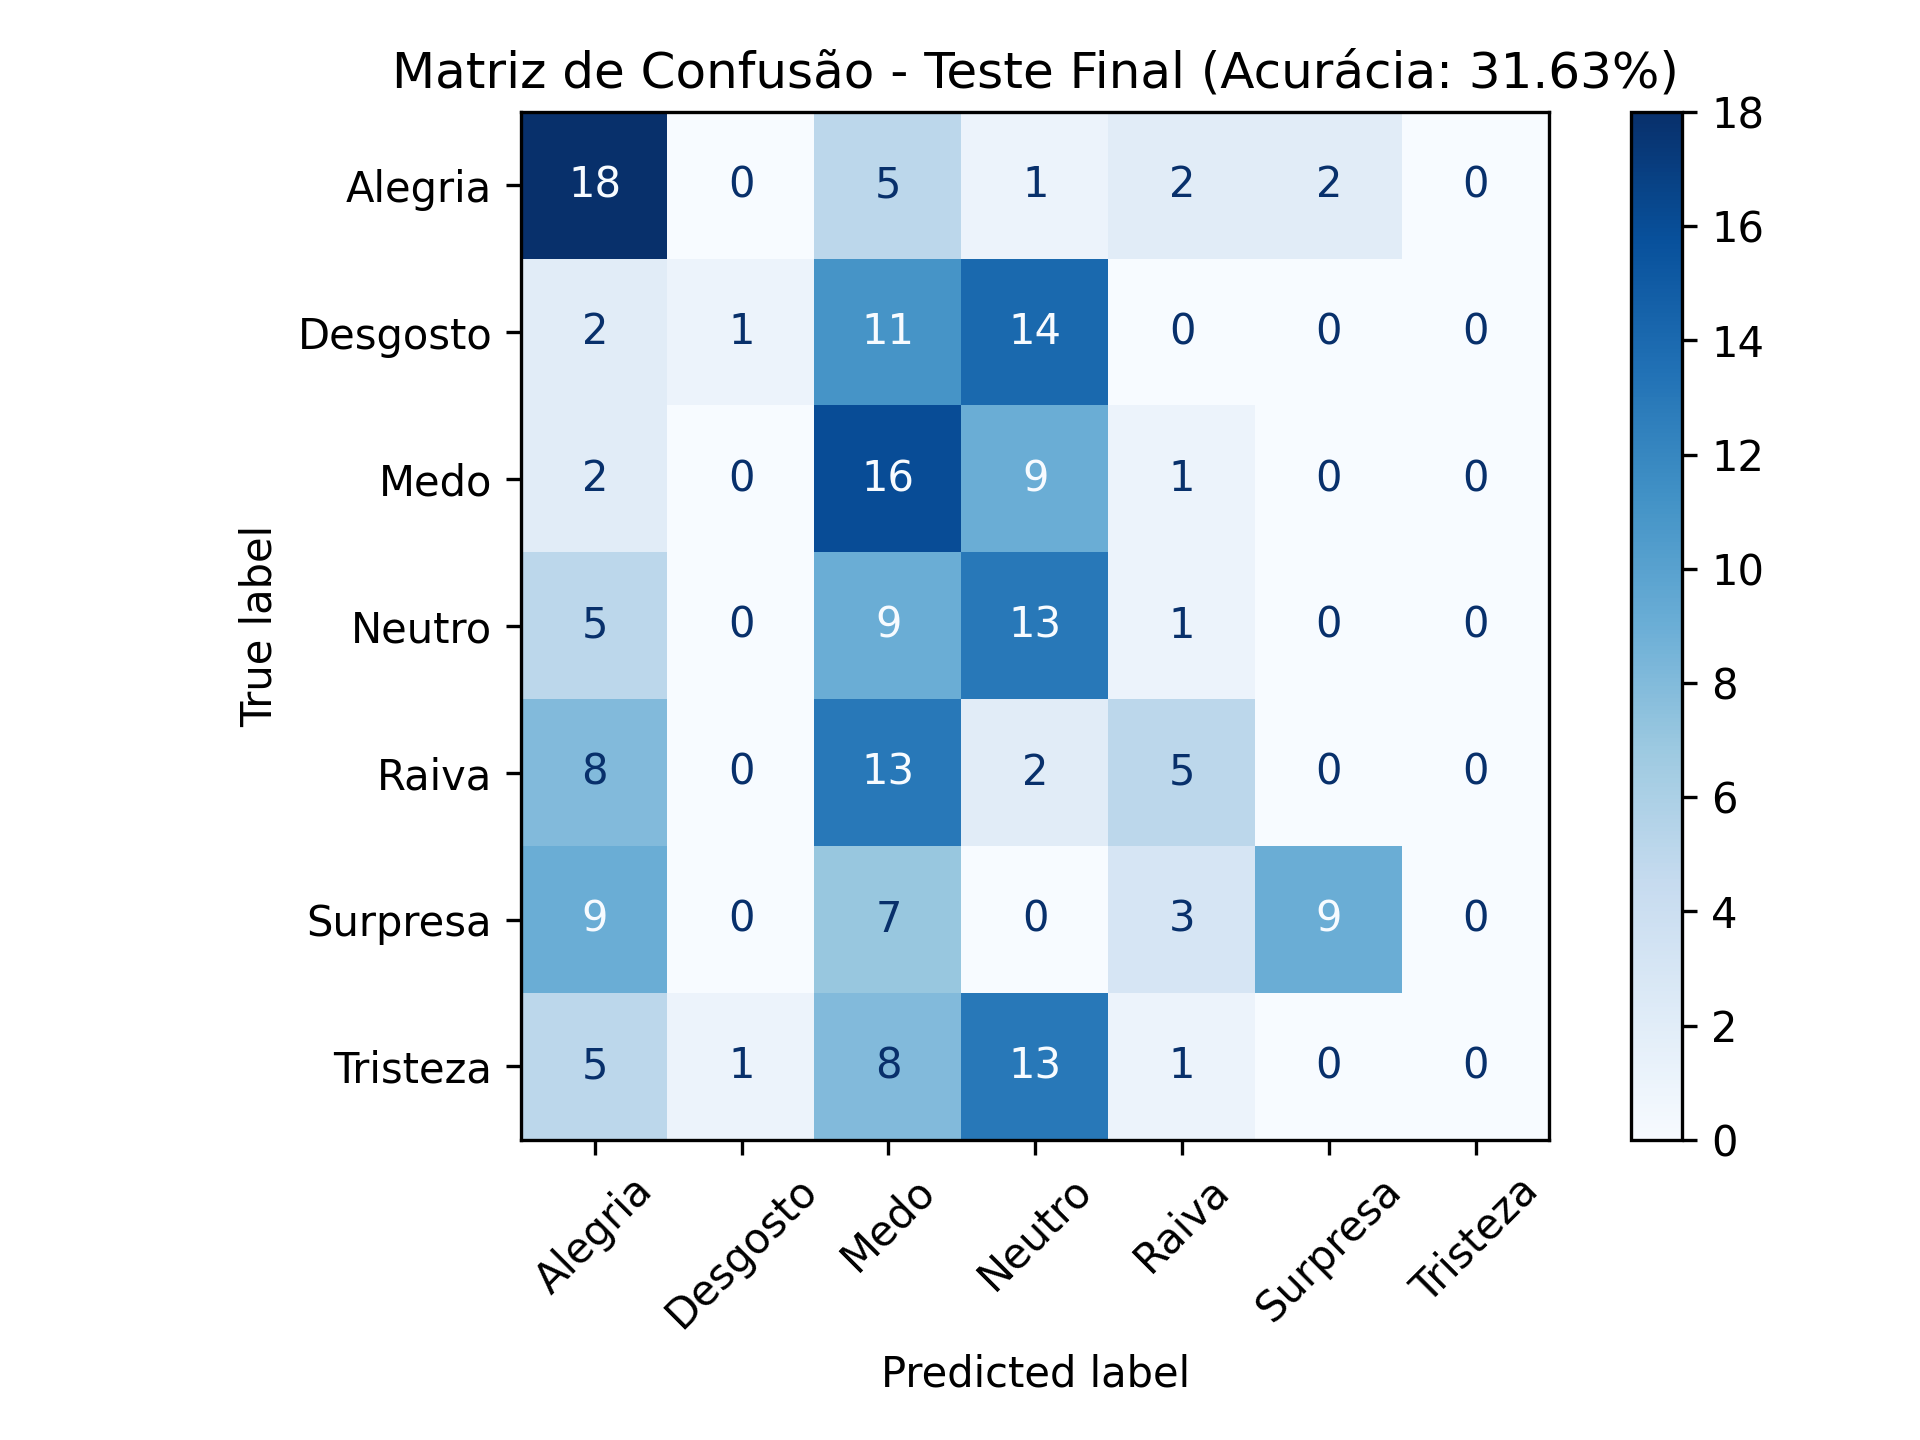
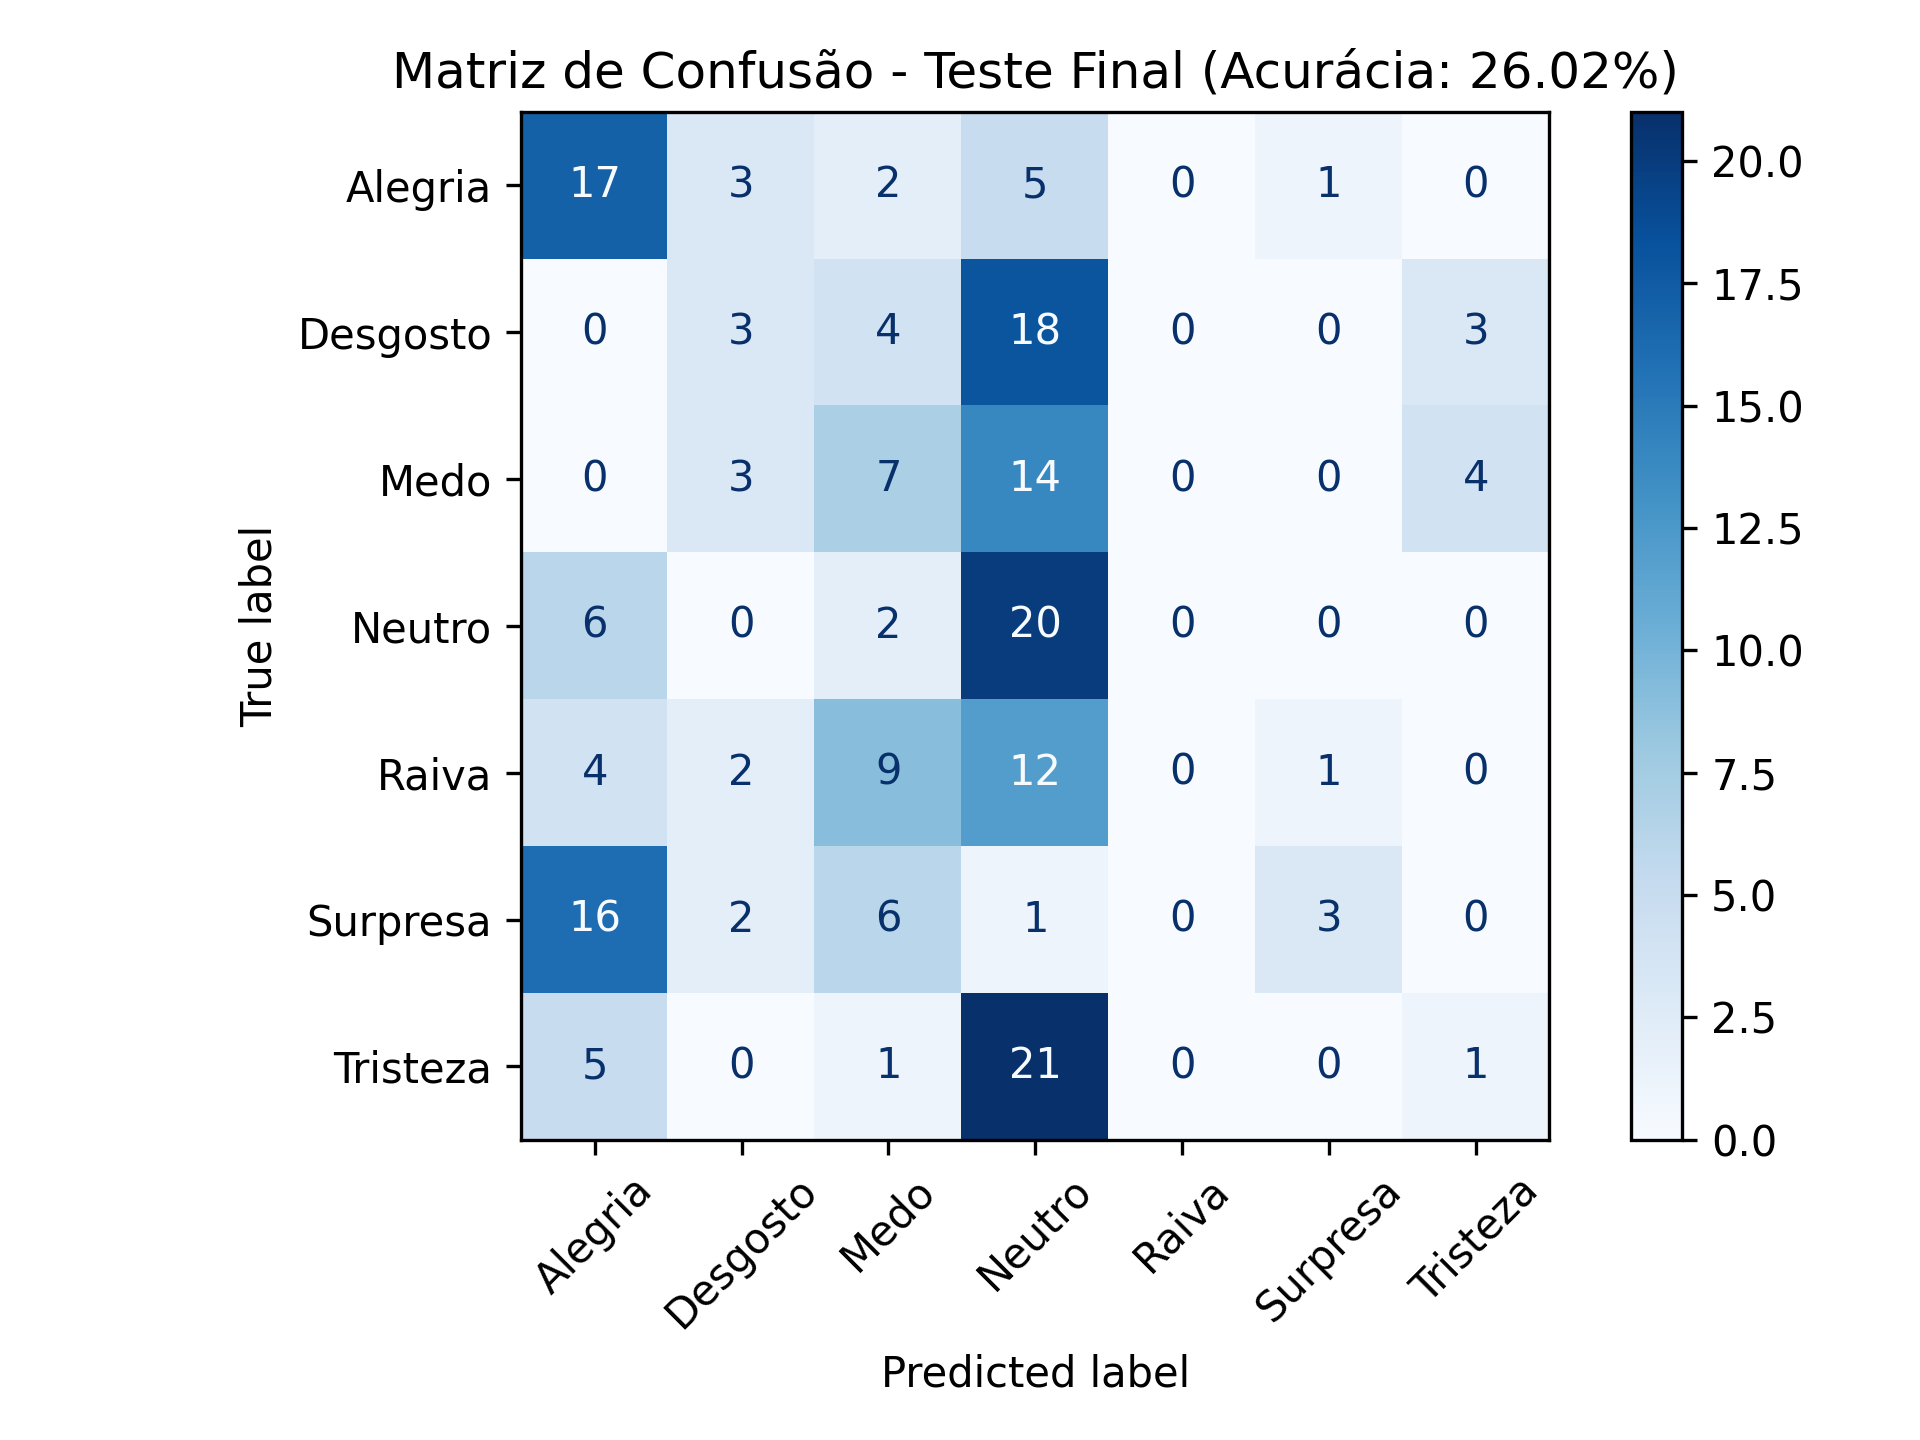
Atualizações projeto final, espectrogramas

diff --git a/src/training/run_verbo_experiment.py b/src/training/run_verbo_experiment.py
@@ -1,0 +1,137 @@
+import os
+import sys
+import torch
+import torch.nn.functional as F
+from torch.utils.data import DataLoader
+
+# 1. Ajuste de Rota Mestra
+caminho_script = os.path.dirname(os.path.abspath(__file__))
+raiz_projeto = os.path.abspath(os.path.join(caminho_script, "../.."))
+
+if raiz_projeto not in sys.path:
+    sys.path.append(raiz_projeto)
+
+from src.training.verbo_dataset import VerboDataset
+
+# --- A NOVIDADE: FUNÇÃO DE PREENCHIMENTO (PADDING) ---
+def verbo_collate_fn(batch):
+    """
+    Pega uma lista de itens do dataset e os empilha.
+    Se os espectrogramas tiverem tamanhos de tempo diferentes, preenche com silêncio.
+    """
+    # 1. Encontra o maior tamanho de tempo (dimensão 1) no lote atual
+    max_time_len = max([item["mel"].shape[1] for item in batch])
+    
+    padded_mels = []
+    emotion_ids = []
+    speakers = []
+    texts = []
+    
+    for item in batch:
+        mel = item["mel"] # Shape: [80, tempo_variavel]
+        
+        # 2. Calcula quanto falta de "silêncio" para chegar no maior tamanho
+        pad_amount = max_time_len - mel.shape[1]
+        
+        # 3. Preenche (pad) à direita no eixo do tempo. 
+        # O valor -11.51 é aprox. o logaritmo de zero (log(1e-5)), representando silêncio absoluto.
+        padded_mel = F.pad(mel, (0, pad_amount), value=-11.51)
+        
+        padded_mels.append(padded_mel)
+        emotion_ids.append(item["emotion_id"])
+        speakers.append(item["speaker"])
+        texts.append(item["text"])
+        
+    return {
+        # Empilha (stack) todos os tensores que agora têm exatamente o mesmo tamanho
+        "mel": torch.stack(padded_mels),
+        "emotion_id": torch.tensor(emotion_ids, dtype=torch.long),
+        "speaker": speakers,
+        "text": torch.stack(texts)
+    }
+# -----------------------------------------------------
+
+def main():
+    dataset_root = os.path.join(raiz_projeto, "src", "data")
+    print(f"Iniciando mapeamento do VERBO-Dataset a partir de: {dataset_root}/Audios")
+    
+    try:
+        verbo_data = VerboDataset(dataset_root=dataset_root, target_sample_rate=22050)
+        print(f"Sucesso! Encontrados {len(verbo_data)} arquivos de áudio válidos.")
+        
+        # INJETAMOS A FUNÇÃO DE PADDING AQUI NO DataLoader
+        verbo_loader = DataLoader(
+            verbo_data, 
+            batch_size=4, 
+            shuffle=True, 
+            collate_fn=verbo_collate_fn  # O PyTorch agora usará nossa regra para empilhar!
+        )
+        
+        for batch in verbo_loader:
+            print("\n--- Inspeção do Primeiro Lote (Batch) ---")
+            print(f"Shape do Espectrograma Mel: {batch['mel'].shape}") 
+            print(f"IDs numéricos das Emoções: {batch['emotion_id']}")
+            print(f"Locutores: {batch['speaker']}")
+            print("-----------------------------------------\n")
+
+            print("Gerando imagem do espectrograma colorido...")
+            
+            from PIL import Image
+            import numpy as np
+
+            # Extrai o primeiro espectrograma do lote
+            mel_tensor = batch['mel'][0]
+            locutor = batch['speaker'][0]
+            emocao = batch['emotion_id'][0].item()
+
+            # Normaliza a matriz matemática para valores decimais entre 0.0 e 1.0
+            mel_min = mel_tensor.min()
+            mel_max = mel_tensor.max()
+            mel_norm = (mel_tensor - mel_min) / (mel_max - mel_min)
+            mel_norm_np = mel_norm.cpu().numpy()
+
+            # Inverte o eixo Y para frequências graves ficarem embaixo
+            mel_norm_np = np.flipud(mel_norm_np)
+
+            # --- CRIANDO O MAPA DE CORES ESTILO "JET" MANUALMENTE ---
+            # Âncoras de intensidade: 0.0 = silêncio absoluto, 1.0 = pico de voz
+            x = np.array([0.0, 0.25, 0.50, 0.75, 1.0])
+            
+            # Valores de Vermelho, Verde e Azul para cada âncora
+            r_pts = np.array([0,   0,   100, 255, 255])
+            g_pts = np.array([0,   180, 255, 200, 0  ])
+            b_pts = np.array([100, 255, 50,  0,   0  ])
+
+            # Interpola os valores da matriz para encontrar as cores exatas
+            r = np.interp(mel_norm_np, x, r_pts).astype(np.uint8)
+            g = np.interp(mel_norm_np, x, g_pts).astype(np.uint8)
+            b = np.interp(mel_norm_np, x, b_pts).astype(np.uint8)
+
+            # Empilha os 3 canais (RGB)
+            rgb_matrix = np.stack([r, g, b], axis=-1)
+
+            # Cria a imagem colorida
+            img = Image.fromarray(rgb_matrix, mode='RGB')
+            
+            # Estica a imagem para ficar com a proporção retangular clássica
+            largura_nova = rgb_matrix.shape[1] * 2
+            altura_nova = rgb_matrix.shape[0] * 4
+            img = img.resize((largura_nova, altura_nova), Image.NEAREST)
+
+            # Salva o arquivo na raiz
+            nome_arquivo = f'espectrograma_colorido_{locutor}_emocao{emocao}.png'
+            caminho_imagem = os.path.join(raiz_projeto, nome_arquivo)
+            img.save(caminho_imagem)
+            
+            print(f"✅ Imagem salva com sucesso em: {caminho_imagem}\n")
+            # ========================================================
+            
+            break
+            
+            
+            
+    except Exception as e:
+        print(f"\nOcorreu um erro durante a execução: {e}")
+
+if __name__ == "__main__":
+    main()

diff --git a/src/training/verbo_dataset.py b/src/training/verbo_dataset.py
@@ -1,0 +1,123 @@
+import os
+import re
+import torch
+from torch.utils.data import Dataset
+import torchaudio
+import torchaudio.transforms as T
+
+class VerboDataset(Dataset):
+    def __init__(self, dataset_root, target_sample_rate=22050, n_mels=80):
+        """
+        Dataset customizado para o VERBO-Dataset focado em extração de Mel-espectrogramas.
+        
+        Args:
+            dataset_root (str): Caminho até a pasta principal do VERBO-Dataset (contendo a pasta 'Audios').
+            target_sample_rate (int): Taxa de amostragem que o modelo espera (ex: 22050 ou 24000 Hz).
+            n_mels (int): Número de canais Mel (padrão do Tacotron/FastPitch é 80).
+        """
+        self.audio_dir = os.path.join(dataset_root, "Audios")
+        self.target_sample_rate = target_sample_rate
+        self.n_mels = n_mels
+        self.file_list = []
+        
+        # Dicionário para mapear as strings de emoção para IDs numéricos (útil para validação interna)
+        self.emotion_to_id = {
+            "ale": 0, "des": 1, "med": 2, "neu": 3, 
+            "rai": 4, "sur": 5, "tri": 6
+        }
+        
+        # Inicializa o transformador para gerar o Espectrograma Mel
+        # Nota: Os parâmetros n_fft, hop_length e win_length devem idealmente coincidir 
+        # com os encontrados em configs.py do seu repositório.
+        self.mel_transform = T.MelSpectrogram(
+            sample_rate=self.target_sample_rate,
+            n_fft=1024,
+            win_length=1024,
+            hop_length=256,
+            n_mels=self.n_mels,
+            power=2.0
+        )
+        
+        self._build_index()
+
+    def _build_index(self):
+        """Varre as 12 pastas e extrai os metadados com um filtro mais flexível."""
+        if not os.path.exists(self.audio_dir):
+            raise FileNotFoundError(f"Diretório de áudios não encontrado em: {self.audio_dir}")
+            
+        # Regex hiper-flexível:
+        # Pega a Emoção (grupo 1), Locutor (grupo 2) e a Frase/Código (grupo 3)
+        # Separados por hífen ou underline
+        pattern = re.compile(r"^([a-zA-Z]+)[-_]([a-zA-Z0-9]+)[-_](.+)(?:\.wav)$", re.IGNORECASE)
+
+        arquivos_ignorados = []
+
+        for folder in os.listdir(self.audio_dir):
+            folder_path = os.path.join(self.audio_dir, folder)
+            if os.path.isdir(folder_path):
+                for filename in os.listdir(folder_path):
+                    # Aceita tanto .wav quanto .WAV
+                    if filename.lower().endswith(".wav"):
+                        match = pattern.match(filename)
+                        if match:
+                            emotion_str, speaker, phrase_id = match.groups()
+                            
+                            # Padroniza pegando só as 3 primeiras letras em minúsculo (ex: 'Ale')
+                            emo_key = emotion_str.lower()[:3]
+                            emotion_id = self.emotion_to_id.get(emo_key, -1)
+                            
+                            self.file_list.append({
+                                "file_path": os.path.join(folder_path, filename),
+                                "emotion_str": emo_key,
+                                "emotion_id": emotion_id,
+                                "speaker": speaker,
+                                "phrase_id": phrase_id
+                            })
+                        else:
+                            arquivos_ignorados.append(filename)
+
+        # Sistema de Debug: Mostra o que ficou de fora
+        if arquivos_ignorados:
+            print(f"\n[ALERTA] {len(arquivos_ignorados)} arquivos foram ignorados por causa do nome.")
+            print(f"Exemplos do que foi ignorado: {arquivos_ignorados[:10]}\n")
+
+    def __len__(self):
+        return len(self.file_list)
+
+    def __getitem__(self, index):
+        meta = self.file_list[index]
+        
+        # 1. Carregar o arquivo de áudio bruto (.wav)
+        waveform, sample_rate = torchaudio.load(meta["file_path"])
+        
+        # 2. Garantir que o áudio seja Mono (reduzir canais se houver estéreo)
+        if waveform.shape[0] > 1:
+            waveform = torch.mean(waveform, dim=0, keepdim=True)
+            
+        # 3. Resampling se a taxa de amostragem original diferir do alvo do modelo
+        if sample_rate != self.target_sample_rate:
+            resampler = T.Resample(orig_freq=sample_rate, new_freq=self.target_sample_rate)
+            waveform = resampler(waveform)
+            
+        # 4. Computar o Espectrograma Mel
+        mel_spectrogram = self.mel_transform(waveform)  # Shape: [1, n_mels, time_frames]
+        mel_spectrogram = mel_spectrogram.squeeze(0)    # Shape: [n_mels, time_frames]
+        
+        # 5. Aplicar compressão logarítmica (Log-Mel Spectrogram)
+        # O acréscimo de 1e-5 evita o cálculo de log(0) que resultaria em menos infinito
+        log_mel = torch.log(torch.clamp(mel_spectrogram, min=1e-5))
+        
+        # 6. Placeholder para o pipeline de texto
+        # Como o VERBO foca em transferência e controle de estilo, se vocês não tiverem as 
+        # transcrições em texto de 'l1', 'l2', passamos um tensor de tokens vazio ou IDs padrão.
+        # Caso possuam um arquivo de transcrições, ele pode ser mapeado aqui.
+        dummy_text_tokens = torch.tensor([1, 2, 3], dtype=torch.long) 
+        
+        return {
+            "text": dummy_text_tokens,
+            "mel": log_mel,
+            "emotion_id": meta["emotion_id"],
+            "speaker": meta["speaker"]
+        }
+    
+    

diff --git a/src/models/EmotionClassifier.py b/src/models/EmotionClassifier.py
@@ -1,5 +1,8 @@
 import torch
 import torch.nn as nn
+import torchaudio.transforms as T
+import os
+import matplotlib.pyplot as plt
 from src.models.HubertEmotionExtractor import load_hubert_emotion_model
 
 class HubertEmotionClassifier(nn.Module):
@@ -15,16 +18,41 @@ class HubertEmotionClassifier(nn.Module):
         self.hidden_size = 768 
 
         #############################
-        self.layer_weights = nn.Parameter(torch.ones(13))#
-        
+        self.layer_weights = nn.Parameter(torch.ones(13))
+
+        # configurar o mel espectrograma
+        self.n_mels = 128
+        self.mel_transform = T.MelSpectrogram(
+            sample_rate=16000,
+            n_fft=1024,
+            hop_length=512,
+            n_mels=self.n_mels
+        )
+
+        self.save_dir = "data/mel_spectrograms_visual"
+        os.makedirs(self.save_dir, exist_ok=True)
+
+        self.saved_images_count = 0
+        self.max_images_to_save = 100
+
+        self.emotion_map = {
+            0: "Alegria", 1: "Desgosto", 2: "Medo", 
+            3: "Neutro", 4: "Raiva", 5: "Surpresa", 6: "Tristeza"
+        }
+
+        ##############################
+
+        self.combined_size = self.hidden_size + self.n_mels
+
         self.classifier = nn.Sequential(
             nn.Dropout(0.4),
-            nn.Linear(self.hidden_size, 256),
+            nn.Linear(self.combined_size, 256),
+            nn.LeakyReLU(0.1),
             nn.Linear(256, num_classes)
         )
-        
-    def forward(self, input_values):
-    
+
+    def forward(self, input_values, file_names=None, labels=None):
+
         outputs = self.hubert(input_values, output_hidden_states=True)
 
         hidden_states = outputs.hidden_states
@@ -38,8 +66,52 @@ class HubertEmotionClassifier(nn.Module):
         #last_hidden_state = outputs.hidden_states[-5]
         
         #pooled_output = torch.mean(last_hidden_state, dim=1)
-        
-        logits = self.classifier(pooled_output)
-        return logits  
+
+        mel_spec = self.mel_transform(input_values)
+        log_mel_spec = torch.log(mel_spec + 1e-6)
+
+        if self.training and self.saved_images_count < self.max_images_to_save:
+            # Percorre o lote (batch) atual
+            for i in range(log_mel_spec.size(0)):
+                if self.saved_images_count >= self.max_images_to_save:
+                    break
+
+                spec_numpy = log_mel_spec[i].detach().cpu().numpy()
+                
+                audio_name = "Desconhecido"
+                emotion_name = "Nao_Identificada"
+                
+                if file_names is not None and i < len(file_names):
+                    audio_name = os.path.basename(file_names[i]) # Pega apenas o nome (ex: m1-raiva-1.wav)
+                    
+                if labels is not None and i < len(labels):
+                    lbl_idx = labels[i].item() # Converte o tensor numérico para int do Python
+                    emotion_name = self.emotion_map.get(lbl_idx, "Desconhecido")
+                
+                # Desenha o espectrograma usando Matplotlib
+                plt.figure(figsize=(9, 5))
+                plt.imshow(spec_numpy, aspect='auto', origin='lower', cmap='viridis')
+                
+                #  Título da imagem atualizado para os seus slides
+                plt.title(f"Mel Spectrogram\nArquivo: {audio_name} | Emoção Real: {emotion_name}", fontsize=11, fontweight='bold')
+                plt.xlabel("Tempo (Frames)")
+                plt.ylabel("Filtros Mel (Frequência)")
+                plt.colorbar(format='%+2.0f dB')
+                plt.tight_layout()
+                
+                # Nome do arquivo final categorizado por Emoção + Nome Original
+                clean_filename = f"{emotion_name}_{audio_name}.png"
+                plt.savefig(os.path.join(self.save_dir, clean_filename))
+                plt.close() # Fecha a imagem para liberar memória RAM
+                
+                self.saved_images_count += 1
+
+        # Pooling temporal do Mel para enviar ao classificador
+        mel_pooled = torch.mean(log_mel_spec, dim=2) 
+
+        #PARTE 3: FUSÃO E CLASSIFICAÇÃO 
+        combined_features = torch.cat((pooled_output, mel_pooled), dim=1) 
+        logits = self.classifier(combined_features)
+        return logits
 
 

diff --git a/src/training/train_emotion.py b/src/training/train_emotion.py
@@ -88,10 +88,20 @@ def train():
     
         for batch_idx, (inputs, labels) in enumerate(train_loader):
             inputs, labels = inputs.to(device), labels.to(device)
+
+            # 🔥 MODIFICAÇÃO 1: Mapear e descobrir os caminhos originais dos arquivos de áudio do lote (batch) atual
+            # Como o DataLoader embaralha os dados (shuffle=True), nós descobrimos de onde vieram resgatando os índices originais
+            start_idx = batch_idx * batch_size
+            end_idx = start_idx + inputs.size(0)
+            
+            # Recupera a lista de paths pertencentes aos índices deste lote específico
+            batch_indices = train_indices[start_idx:end_idx]
+            file_names = [dataset.file_paths[idx] for idx in batch_indices]
         
             optimizer.zero_grad()
         
-            outputs = model(inputs)
+            # 🔥 MODIFICAÇÃO 2: Passar os caminhos e os labels numéricos para dentro do forward do seu modelo
+            outputs = model(inputs, file_names=file_names, labels=labels)
         
             loss = criterion(outputs, labels)
         